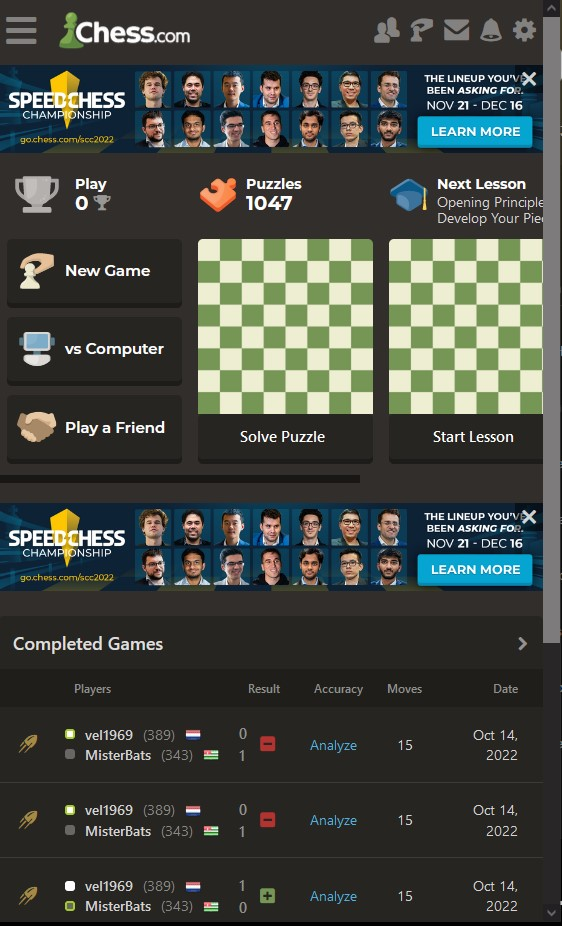
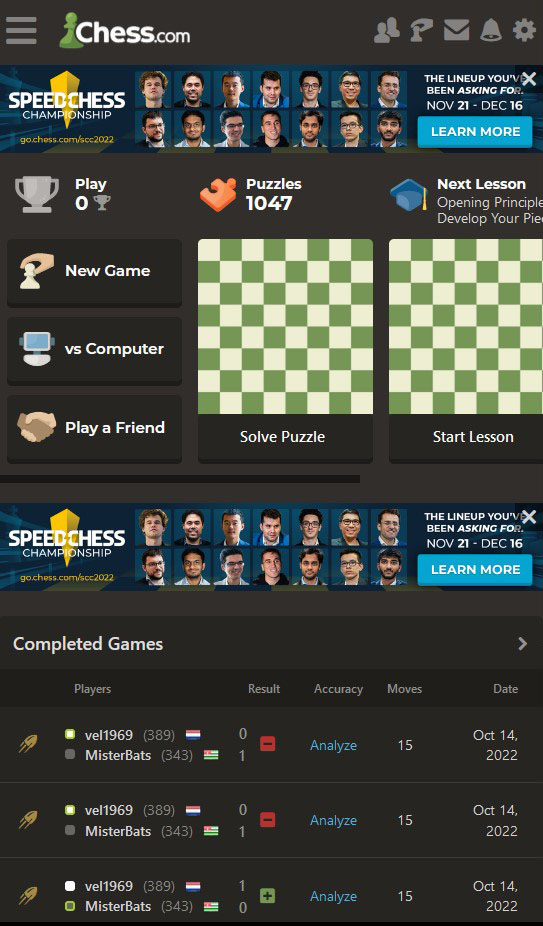
removed scrollbars from images and fixed rotated text

diff --git a/src/components/organisms/HorizontalBars.jsx b/src/components/organisms/HorizontalBars.jsx
@@ -185,7 +185,7 @@ const Hobby = styled(Cell)`
 
 const CategoryTitle = styled.h1`
   color: var(--color-white);
-  font-size: 11rem;
+  font-size: 19vh;
   font-family: 'acier-bat-noir', sans-serif;
   font-weight: 400;
   font-style: normal;
@@ -193,6 +193,7 @@ const CategoryTitle = styled.h1`
   position: absolute;
   top: -0.5rem;
   translate: -15rem;
-  writing-mode: sideways-lr;
-  text-orientation: mixed;
+  rotate: -90deg;
+  translate: -65%;
+  top: 30.5vh;
 `;
